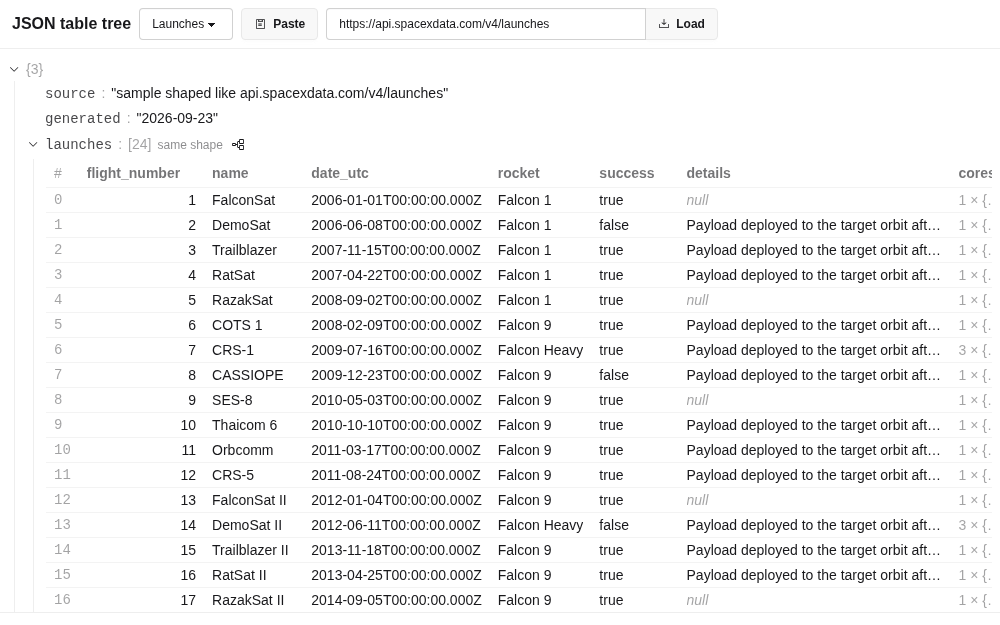
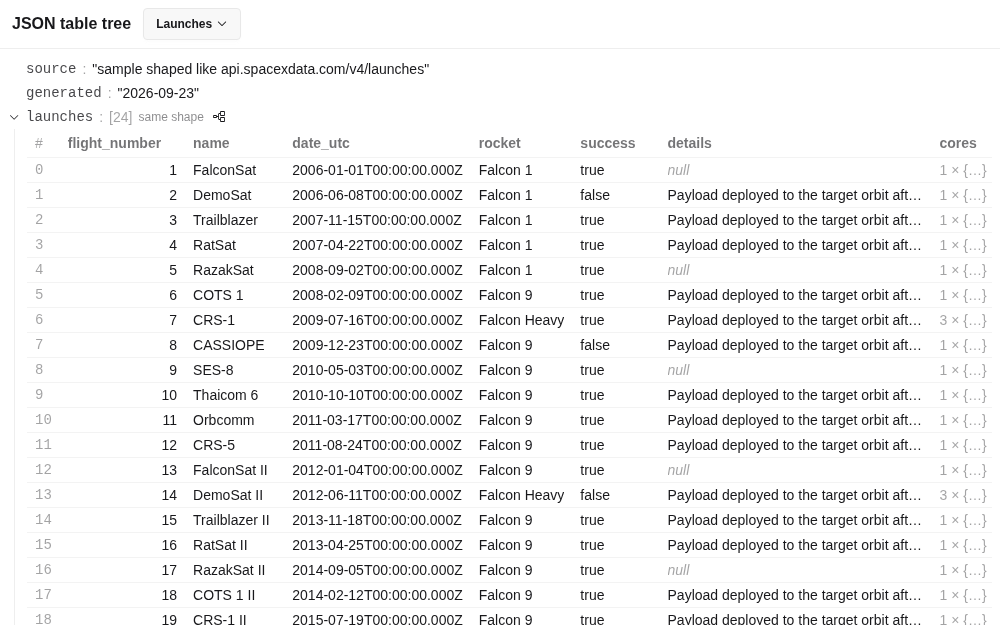
Clean up the table tree's chrome
Drops the presence counts from column headers and the selection highlight,
which read as a second meaning of a click that only expands. Copying moves
from a footer of unlabeled buttons to a per-row menu: a sheet that shows the
node's path and offers Copy path and Copy value as JSON (with its size), plus
Copy text for a string. Samples, Paste JSON and From URL share one header
menu, and an object root shows its keys without a line of its own.

Claude-Session: https://claude.ai/code/session_019uSTEe1rqqcN1mAzTC1Y1G

diff --git a/pages/drop/json-table-tree.html b/pages/drop/json-table-tree.html
@@ -14,12 +14,11 @@
      children; a child exists only once its parent is open. -->
 <template id="node-tpl">
   <div class="min-w-0">
-    <div class="flex items-baseline gap-1.5 py-0.5 pr-2 rounded cursor-pointer hover:bg-base-200 whitespace-nowrap"
-         :class="isSel() && 'bg-base-200'" @click="toggle()">
+    <div class="group flex items-center gap-1.5 pr-1 rounded cursor-pointer hover:bg-base-200 whitespace-nowrap" x-show="!bare" @click="toggle()">
       <i class="ph ph-caret-right text-xs shrink-0 transition-transform" :class="[open && 'rotate-90', leaf && 'invisible']"></i>
       <span class="font-mono shrink-0" :class="typeof k === 'number' ? 'text-base-content/40' : 'text-base-content/80'" x-show="k !== null" x-text="k"></span>
       <span class="text-base-content/40 shrink-0" x-show="k !== null">:</span>
-      <span class="truncate"><template x-for="(s, n) in (open ? head : summary)" :key="n"><span :class="s.c" x-text="s.t"></span></template></span>
+      <span class="truncate min-w-0"><template x-for="(s, n) in (open ? head : summary)" :key="n"><span :class="s.c" x-text="s.t"></span></template></span>
       <template x-if="open && shape">
         <span class="flex items-center gap-1 shrink-0 text-xs text-base-content/50">
           <span x-text="shape.uniform ? 'same shape' : shape.loose ? 'varied' : 'ragged'"></span>
@@ -28,10 +27,12 @@
           </button>
         </span>
       </template>
+      <button class="btn btn-ghost btn-xs btn-square shrink-0 opacity-0 group-hover:opacity-100 focus:opacity-100 [@media(hover:none)]:opacity-40"
+              @click.stop="menu()" aria-label="Copy path or value"><i class="ph ph-dots-three text-base"></i></button>
     </div>
 
     <template x-if="open && !leaf">
-      <div class="ml-1.5 pl-3 border-l border-base-300">
+      <div :class="!bare && 'ml-1.5 pl-3 border-l border-base-300'">
 
         <template x-if="shape && asTable">
           <div>
@@ -43,7 +44,6 @@
                     <template x-for="col in shape.cols" :key="col.k">
                       <th class="cursor-pointer select-none whitespace-nowrap" :class="col.num && 'text-right'" @click="sortBy(col.k)">
                         <span x-text="col.k"></span>
-                        <span class="font-normal text-base-content/40" x-show="col.n < shape.n" x-text="`${col.n}/${shape.n}`"></span>
                         <i class="ph text-xs" :class="sortK !== col.k ? 'invisible ph-caret-down' : sortDir > 0 ? 'ph-caret-up' : 'ph-caret-down'"></i>
                       </th>
                     </template>
@@ -52,10 +52,10 @@
                 <template x-for="r in rows" :key="r.i">
                   <tbody x-data="{ ex: null }">
                     <tr class="hover:bg-base-200" :class="ex !== null && 'bg-base-200'">
-                      <td class="font-mono text-base-content/40 cursor-pointer" @click="ex = ex === '#' ? null : '#'; select([...path, r.i])" x-text="r.i"></td>
+                      <td class="font-mono text-base-content/40 cursor-pointer" @click="ex = ex === '#' ? null : '#'" x-text="r.i"></td>
                       <template x-for="col in shape.cols" :key="col.k">
                         <td class="whitespace-nowrap" :class="[col.num && 'text-right', expandable(r.v, col.k) && 'cursor-pointer']"
-                            @click="select([...path, r.i, col.k]); if (expandable(r.v, col.k)) ex = ex === col.k ? null : col.k">
+                            @click="if (expandable(r.v, col.k)) ex = ex === col.k ? null : col.k">
                           <div class="max-w-64 truncate"><template x-for="(s, n) in cell(r.v, col.k)" :key="n"><span :class="[s.c, ex === col.k && 'underline']" x-text="s.t"></span></template></div>
                         </td>
                       </template>
@@ -90,47 +90,72 @@
   </div>
 </template>
 
-<div x-data="app()" class="fixed inset-0 grid grid-rows-[auto_1fr_auto] min-h-0">
-  <header class="flex flex-wrap items-center gap-2 px-3 py-2 border-b border-base-300">
-    <span class="font-semibold">JSON table tree</span>
-    <select class="select select-sm w-auto" x-model="sample" @change="loadSample()">
-      <template x-for="(s, key) in SAMPLES" :key="key"><option :value="key" x-text="s.label"></option></template>
-    </select>
-    <button class="btn btn-sm" @click="$refs.paste.showModal()"><i class="ph ph-clipboard-text"></i> Paste</button>
-    <form class="join" @submit.prevent="loadUrl()">
-      <input class="input input-sm join-item w-56 sm:w-80" x-model="url" placeholder="https://…" aria-label="JSON URL">
-      <button class="btn btn-sm join-item" :disabled="busy"><i class="ph ph-download-simple"></i> Load</button>
-    </form>
-    <span class="text-xs text-error" x-show="err" x-text="err"></span>
+<div x-data="app()" class="fixed inset-0 grid grid-rows-[auto_1fr] min-h-0">
+  <header class="flex items-center gap-3 px-3 py-2 border-b border-base-300 min-w-0">
+    <span class="font-semibold shrink-0">JSON table tree</span>
+    <details class="dropdown" x-ref="src">
+      <summary class="btn btn-sm gap-1"><span x-text="source"></span><i class="ph ph-caret-down text-xs"></i></summary>
+      <ul class="dropdown-content menu bg-base-100 rounded-box shadow-lg border border-base-300 z-20 w-52 p-1 mt-1">
+        <template x-for="(s, key) in SAMPLES" :key="key">
+          <li><a @click="loadSample(key)" x-text="s.label"></a></li>
+        </template>
+        <li class="menu-title pt-2">Your data</li>
+        <li><a @click="$refs.src.open = false; $refs.paste.showModal()"><i class="ph ph-clipboard-text"></i> Paste JSON…</a></li>
+        <li><a @click="$refs.src.open = false; $refs.fetch.showModal()"><i class="ph ph-globe-simple"></i> From URL…</a></li>
+      </ul>
+    </details>
+    <span class="text-sm text-error truncate" x-show="err" x-text="err"></span>
   </header>
 
   <main class="overflow-auto min-h-0 p-2 text-sm">
     <template x-for="v in [rev]" :key="v">
-      <div x-data="node(window.DOC, null, [], 0, true)" x-html="TPL"></div>
+      <div x-data="node(window.DOC, null, [], 0, true, true)" x-html="TPL"></div>
     </template>
   </main>
 
-  <footer class="flex items-center gap-2 px-3 py-1.5 border-t border-base-300 min-w-0 text-xs font-mono">
-    <template x-if="$store.sel.path">
-      <div class="flex items-center gap-2 min-w-0">
-        <button class="btn btn-ghost btn-xs" @click="copy(pointer($store.sel.path))"><i class="ph ph-copy"></i> pointer</button>
-        <span class="truncate" x-text="pointer($store.sel.path) || '/'"></span>
-        <button class="btn btn-ghost btn-xs" @click="copy(accessor($store.sel.path))"><i class="ph ph-copy"></i> accessor</button>
-        <span class="truncate text-base-content/60" x-text="accessor($store.sel.path)"></span>
-        <span class="text-success" x-show="copied">copied</span>
+  <dialog class="modal modal-bottom sm:modal-middle" x-ref="menu">
+    <div class="modal-box">
+      <form method="dialog"><button class="btn btn-ghost btn-sm btn-square absolute right-2 top-2" aria-label="Close"><i class="ph ph-x"></i></button></form>
+      <div class="font-mono text-sm break-all pr-8" x-text="m.path"></div>
+      <div class="flex flex-col mt-3">
+        <button class="btn btn-ghost justify-between" @click="copy('path', m.path)">
+          <span class="flex items-center gap-2"><i class="ph ph-path"></i> Copy path</span>
+          <span class="text-xs text-success" x-show="done === 'path'">copied</span>
+        </button>
+        <button class="btn btn-ghost justify-between" @click="copy('json', m.json)">
+          <span class="flex items-center gap-2"><i class="ph ph-brackets-curly"></i> <span x-text="m.text === null ? 'Copy value as JSON' : 'Copy JSON'"></span></span>
+          <span class="text-xs" :class="done === 'json' ? 'text-success' : 'text-base-content/50'" x-text="done === 'json' ? 'copied' : m.size"></span>
+        </button>
+        <button class="btn btn-ghost justify-between" x-show="m.text !== null" @click="copy('text', m.text)">
+          <span class="flex items-center gap-2"><i class="ph ph-text-aa"></i> Copy text</span>
+          <span class="text-xs text-success" x-show="done === 'text'">copied</span>
+        </button>
       </div>
-    </template>
-  </footer>
+    </div>
+    <form method="dialog" class="modal-backdrop"><button>close</button></form>
+  </dialog>
 
   <dialog class="modal" x-ref="paste">
     <div class="modal-box w-11/12 max-w-5xl">
-      <textarea class="textarea w-full h-72 font-mono text-xs" x-model="pasted" placeholder="{ … }"></textarea>
+      <textarea class="textarea w-full h-72 font-mono text-xs" x-model="pasted" placeholder="{ … }" aria-label="JSON to show"></textarea>
       <div class="flex items-center gap-2 mt-2">
-        <span class="text-xs text-error flex-1" x-text="pasteErr"></span>
+        <span class="text-sm text-error flex-1" x-text="pasteErr"></span>
         <form method="dialog"><button class="btn btn-sm btn-ghost">Cancel</button></form>
         <button class="btn btn-sm btn-primary" @click="loadPaste()">Show</button>
       </div>
     </div>
+    <form method="dialog" class="modal-backdrop"><button>close</button></form>
+  </dialog>
+
+  <dialog class="modal" x-ref="fetch">
+    <form class="modal-box flex flex-col gap-2" @submit.prevent="loadUrl()">
+      <input class="input w-full" x-model="url" placeholder="https://…" aria-label="JSON URL">
+      <div class="flex items-center gap-2">
+        <span class="text-sm text-error flex-1" x-text="err"></span>
+        <button type="button" class="btn btn-sm btn-ghost" @click="$refs.fetch.close()">Cancel</button>
+        <button class="btn btn-sm btn-primary" :disabled="busy">Load</button>
+      </div>
+    </form>
     <form method="dialog" class="modal-backdrop"><button>close</button></form>
   </dialog>
 </div>
@@ -143,8 +168,8 @@ const STEP = 100;
 // An array of plain objects can always be drawn as a table. It opens as one
 // when the union of the items' keys is not much wider than a typical item;
 // wider than that ("varied"), it opens as a tree and the table is one click
-// away. "Same shape" means every item carries every key; otherwise the header
-// shows how many rows carry each column.
+// away. "Same shape" means every item carries every key, "ragged" that some
+// rows lack some columns.
 const isObj = x => x !== null && typeof x === 'object' && !Array.isArray(x);
 const shapes = new WeakMap();
 function shapeOf(arr) {
@@ -223,11 +248,12 @@ function cellOf(v) {               // a table cell: never more than a line
 }
 
 // ---- a node ---------------------------------------------------------------
-function node(v, k, path, depth = 0, startOpen = false) {
+function node(v, k, path, depth = 0, startOpen = false, root = false) {
   const t = kind(v);
   const leaf = !(t === 'object' || t === 'array') || (t === 'object' ? !Object.keys(v).length : !v.length);
   return {
     k, path, leaf, depth,
+    bare: root && t === 'object',   // an object root shows its keys, not a line of its own
     open: !leaf && (startOpen || depth < 1 || (depth === 1 && shapeOf(v)?.loose === false)),
     asTable: !shapeOf(v)?.loose, limit: STEP, sortK: null, sortDir: 1,
     get shape() { return shapeOf(v); },
@@ -256,16 +282,15 @@ function node(v, k, path, depth = 0, startOpen = false) {
       return tk === 'object' ? Object.keys(x).length > 0 : tk === 'array' ? x.length > 0 : tk === 'string' && x.length > 60;
     },
     sortBy(key) { this.sortDir = this.sortK === key ? -this.sortDir : 1; this.sortK = key; },
-    toggle() { if (!leaf) this.open = !this.open; this.select(path); },
-    select(p) { Alpine.store('sel').path = p; },
-    isSel() { const s = Alpine.store('sel').path; return !!s && s.length === path.length && s.every((x, i) => x === path[i]); },
+    toggle() { if (!leaf) this.open = !this.open; },
+    menu() { window.openMenu(path, v); },
   };
 }
 
-// ---- paths ----------------------------------------------------------------
-const pointer = p => p.map(k => '/' + String(k).replace(/~/g, '~0').replace(/\//g, '~1')).join('');
+// ---- paths and sizes ------------------------------------------------------
 const accessor = p => p.reduce((s, k) => typeof k === 'number' ? `${s}[${k}]`
   : /^[A-Za-z_$][\w$]*$/.test(k) ? `${s}.${k}` : `${s}[${JSON.stringify(k)}]`, 'data');
+const bytes = n => n < 1024 ? `${n} B` : n < 1048576 ? `${(n / 1024).toFixed(1)} KB` : `${(n / 1048576).toFixed(1)} MB`;
 
 // ---- samples: offline, deterministic --------------------------------------
 const pick = (a, i) => a[i % a.length];
@@ -318,25 +343,42 @@ const SAMPLES = {
 
 window.DOC = SAMPLES.launches.make();
 
-document.addEventListener('alpine:init', () => Alpine.store('sel', { path: null }));
-
 function app() {
   return {
-    rev: 0, sample: 'launches', url: 'https://api.spacexdata.com/v4/launches', busy: false, err: '',
-    pasted: '', pasteErr: '', copied: false,
-    show(d) { window.DOC = d; Alpine.store('sel').path = null; this.err = ''; this.rev++; },
-    loadSample() { this.show(SAMPLES[this.sample].make()); },
+    rev: 0, source: SAMPLES.launches.label, url: 'https://api.spacexdata.com/v4/launches', busy: false, err: '',
+    pasted: '', pasteErr: '',
+    m: { path: '', json: '', text: null, size: '' }, done: null,
+    init() {
+      // A node hands over its path and raw value; only strings enter reactive state.
+      window.openMenu = (p, v) => {
+        const json = JSON.stringify(v, null, 2) ?? 'null';
+        this.m = { path: accessor(p), json, text: typeof v === 'string' ? v : null, size: bytes(json.length) };
+        this.done = null;
+        this.$refs.menu.showModal();
+      };
+    },
+    show(d, label) { window.DOC = d; this.source = label; this.err = ''; this.rev++; },
+    loadSample(key) { this.$refs.src.open = false; this.show(SAMPLES[key].make(), SAMPLES[key].label); },
     loadPaste() {
-      try { this.show(JSON.parse(this.pasted)); this.pasteErr = ''; this.$refs.paste.close(); }
+      try { this.show(JSON.parse(this.pasted), 'Pasted JSON'); this.pasteErr = ''; this.$refs.paste.close(); }
       catch (e) { this.pasteErr = e.message; }
     },
     async loadUrl() {
-      this.busy = true;
-      try { const r = await fetch(this.url); if (!r.ok) throw new Error(`${r.status} ${r.statusText}`); this.show(await r.json()); }
-      catch (e) { this.err = e.message; }
+      this.busy = true; this.err = '';
+      try {
+        const r = await fetch(this.url);
+        if (!r.ok) throw new Error(`${r.status} ${r.statusText}`);
+        this.show(await r.json(), new URL(this.url).hostname);
+        this.$refs.fetch.close();
+      } catch (e) { this.err = e.message; }
       this.busy = false;
     },
-    copy(s) { navigator.clipboard?.writeText(s).then(() => { this.copied = true; setTimeout(() => this.copied = false, 1200); }); },
+    copy(what, s) {
+      navigator.clipboard?.writeText(s).then(() => {
+        this.done = what;
+        setTimeout(() => this.$refs.menu.close(), 600);
+      });
+    },
   };
 }
 </script>
